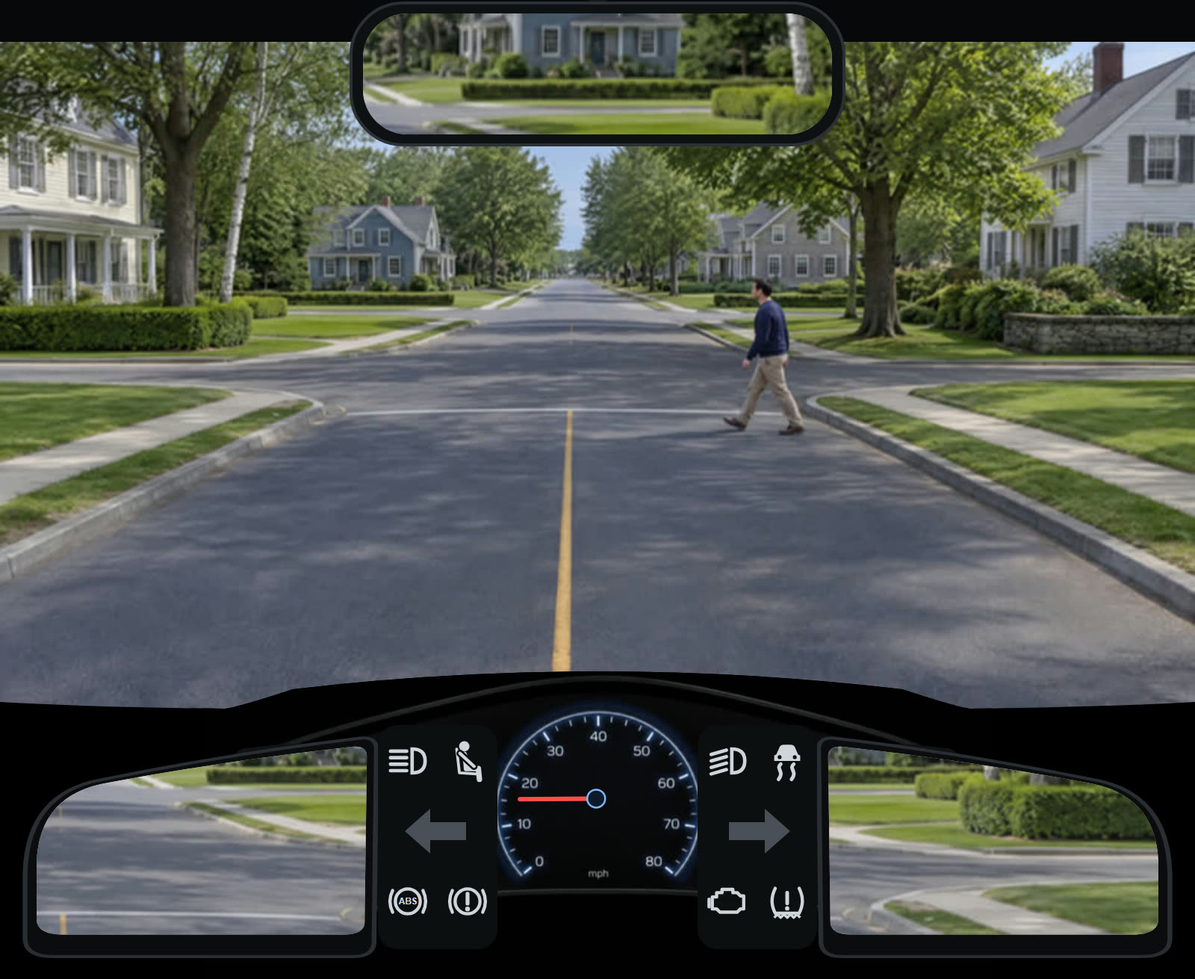
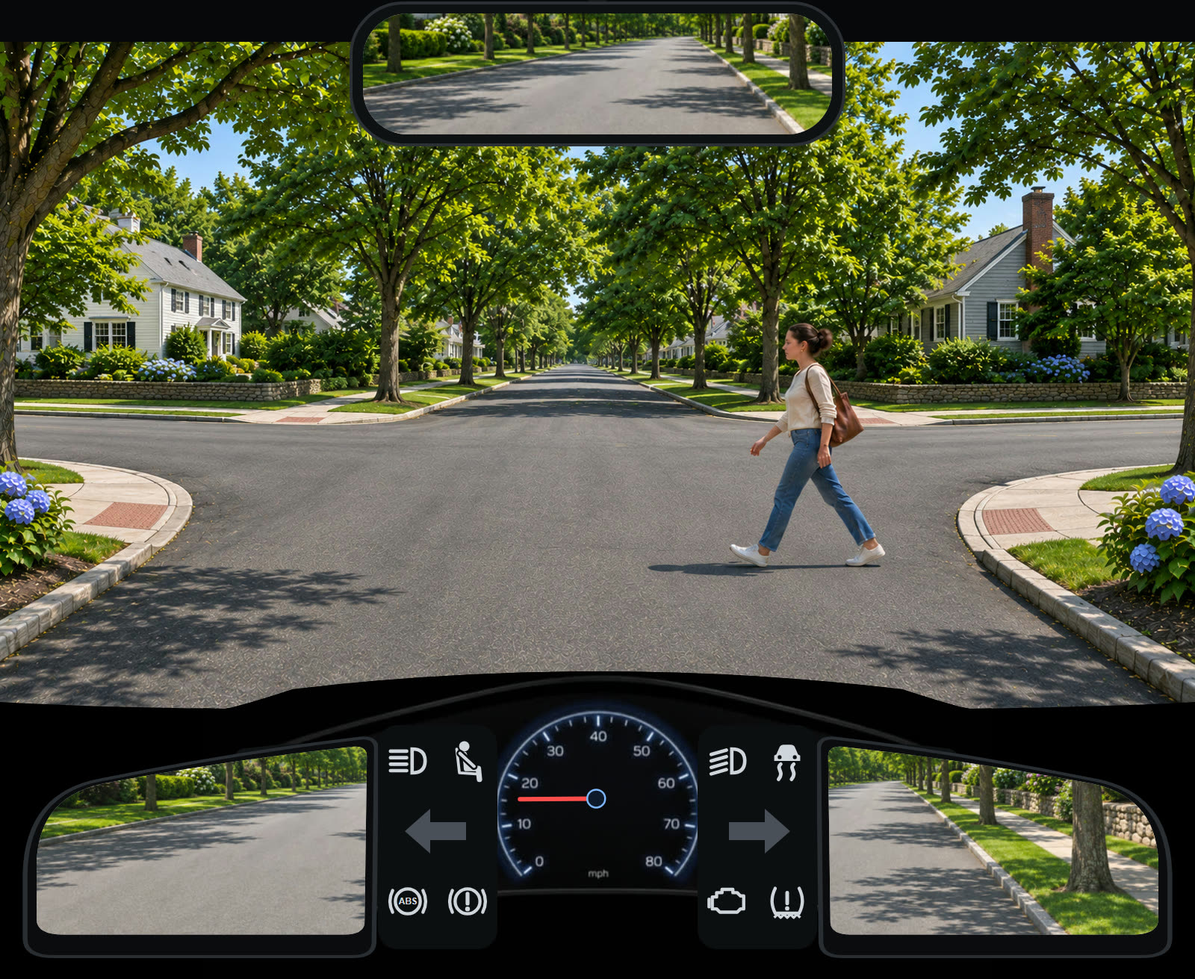
PDD release 4: driver-view pictures for 22 questions (list items 14, 21-32, 35, 36, 38, 40, 41, 47, 49, 52)
User accepted the pictures 18-19.11 (zoom, diff with the previous version, frame with
mirrors at 375 px; notes in drafts/items-*-notes.txt). Q139, Q198, Q199, Q201 (top view),
Q202 and Q531 (same picture), Q203-Q210, Q208 (top view), Q214 (top view), Q215 (low beam),
Q637, Q300, Q275, Q85; Q68 and Q92 get 16:10 pictures instead of the 16:9 ones. Letters
drawn onto app copies of Q201 (A-D), Q208 (A-C), Q209 (A-C). Short texts in DVT keep the
facts a phone-size picture does not show (reviewer 19.11, accepted by the user); full texts
and picture notes in question-texts.json; progress reset QV 2026-11-20-img. Q636, Q635, Q64,
Q189 taken out until new pictures (unchanged vs. HEAD); Q212 waits for a decision on option 3.
Not published yet.

diff --git a/index.html b/index.html
@@ -1171,7 +1171,7 @@ PDD_EDIT_ROW.forEach(e=>{const q=Q[e.id];
 /* PDD-DRIVER-VIEW: windshield frame for driver's-view pictures (approved 2026-11-08; editorial/img/driver-view, skill pdd-driver-view-image).
    DV[id] = [scene, speed mph, left signal, right signal, mirror scene or '', scene top (56; lower it, up to 122, when the rear-view mirror would hide a signal or sign)] — dvf() runs only at build time: editorial/img/driver-view/build-app.cjs fills DVI from app/*.jpg, pre-renders each frame to img/dv/q<id>.jpg and writes DVP (user decision 2026-11-17: pictures as separate files). */
 const DVI={};/*DVI*/
-const DV={65:['q65',10,1,0,'',122],68:['q68f',25,0,0,'q68r'],92:['q92',15,0,0,'q92r'],213:['q213f',55,1,0,'q213r'],294:['q294',20,0,0,''],675:['r21',0,0,0,'r21r',56,{h:1000,ry:80,low:1}],669:['r15',0,0,0,'r15r',56,{h:1000,ry:130}],671:['r17',30,0,0,'r17r',56,{h:1000,ry:80}],673:['r19',0,0,0,'r19r',56,{h:1000,ry:80}],677:['r23',5,1,0,'r23r',56,{h:1000,ry:80}],679:['r25',0,1,0,'r25r',56,{h:1000,ry:80}],682:['r28',35,0,0,'r28r',56,{h:1000,ry:80}],684:['r30',0,0,0,'r30r',56,{h:1000,ry:80}],686:['r32',45,0,0,'r32r',56,{h:1000,ry:80,high:1}],687:['r33',45,0,0,'r33r',56,{h:1000,ry:80,high:1}],689:['r35',45,0,0,'r35r',56,{h:1000,ry:80}],692:['r38',25,0,0,'r38r',56,{h:1000,ry:80,low:1}],695:['r41',45,0,0,'r41r',56,{h:1000,ry:80}],67:['q67',30,0,0,'q67r',56,{h:1000,ry:80}],97:['q97',45,0,0,'q97r',56,{h:1000,ry:40}],99:['q99',0,0,0,'',56,{h:1000,plain:1}],132:['q132',10,0,0,'q132r',56,{h:1000,ry:80}],160:['q160',15,0,0,'q160r',56,{h:1000,ry:80}],176:['q176',10,0,0,'q176r',56,{h:1000,ry:80}],564:['q564',55,0,0,'q564r',56,{h:1000,ry:80}],612:['q612',20,0,0,'q612r',56,{h:1000,ry:80}],638:['q638',0,0,0,'q638r',56,{h:1000,ry:80}],90:['q90',40,0,0,'q90r',56,{h:1000,ry:60}],195:['q195',25,0,0,'q195r',56,{h:1000,ry:80}],196:['q196',25,0,0,'q196r',56,{h:1000,ry:80}],647:['q647',15,0,0,'q647r',56,{h:1000,ry:80}],197:['q197',15,0,0,'q197r',56,{h:1000,ry:80}]};
+const DV={65:['q65',10,1,0,'',122],68:['q68',25,0,0,'q68r',56,{h:1000,ry:80}],92:['q92',15,0,0,'q92r',56,{h:1000,ry:80}],213:['q213f',55,1,0,'q213r'],294:['q294',20,0,0,''],675:['r21',0,0,0,'r21r',56,{h:1000,ry:80,low:1}],669:['r15',0,0,0,'r15r',56,{h:1000,ry:130}],671:['r17',30,0,0,'r17r',56,{h:1000,ry:80}],673:['r19',0,0,0,'r19r',56,{h:1000,ry:80}],677:['r23',5,1,0,'r23r',56,{h:1000,ry:80}],679:['r25',0,1,0,'r25r',56,{h:1000,ry:80}],682:['r28',35,0,0,'r28r',56,{h:1000,ry:80}],684:['r30',0,0,0,'r30r',56,{h:1000,ry:80}],686:['r32',45,0,0,'r32r',56,{h:1000,ry:80,high:1}],687:['r33',45,0,0,'r33r',56,{h:1000,ry:80,high:1}],689:['r35',45,0,0,'r35r',56,{h:1000,ry:80}],692:['r38',25,0,0,'r38r',56,{h:1000,ry:80,low:1}],695:['r41',45,0,0,'r41r',56,{h:1000,ry:80}],67:['q67',30,0,0,'q67r',56,{h:1000,ry:80}],97:['q97',45,0,0,'q97r',56,{h:1000,ry:40}],99:['q99',0,0,0,'',56,{h:1000,plain:1}],132:['q132',10,0,0,'q132r',56,{h:1000,ry:80}],160:['q160',15,0,0,'q160r',56,{h:1000,ry:80}],176:['q176',10,0,0,'q176r',56,{h:1000,ry:80}],564:['q564',55,0,0,'q564r',56,{h:1000,ry:80}],612:['q612',20,0,0,'q612r',56,{h:1000,ry:80}],638:['q638',0,0,0,'q638r',56,{h:1000,ry:80}],90:['q90',40,0,0,'q90r',56,{h:1000,ry:60}],195:['q195',25,0,0,'q195r',56,{h:1000,ry:80}],196:['q196',25,0,0,'q196r',56,{h:1000,ry:80}],647:['q647',15,0,0,'q647r',56,{h:1000,ry:80}],197:['q197',15,0,0,'q197r',56,{h:1000,ry:80}],85:['q85',15,0,0,'q85r',56,{h:1000,ry:80}],139:['q139',0,0,0,'q139r',56,{h:1000,ry:80}],198:['q198',10,0,1,'q198r',56,{h:1000,ry:80}],199:['q199',0,1,0,'q199r',56,{h:1000,ry:80}],201:['q201',0,0,0,'',56,{h:1000,plain:1}],202:['q202',15,0,0,'q202r',56,{h:1000,ry:80}],203:['q203',55,0,0,'q203r',56,{h:1000,ry:80}],204:['q204',15,0,0,'q204r',56,{h:1000,ry:80}],205:['q205',0,0,1,'q205r',56,{h:1000,ry:80}],206:['q206',25,0,0,'q206r',56,{h:1000,ry:80}],207:['q207',40,0,0,'q207r',56,{h:1000,ry:80}],208:['q208',0,0,0,'',56,{h:1000,plain:1}],209:['q209',0,0,0,'q209r',56,{h:1000,ry:80}],210:['q210',10,0,0,'q210r',56,{h:1000,ry:80}],214:['q214',0,0,0,'',56,{h:1000,plain:1}],215:['q215',30,0,0,'q215r',56,{h:1000,ry:80,low:1}],275:['q275',10,0,0,'q275r',56,{h:1000,ry:80}],300:['q300',15,0,0,'q300r',56,{h:1000,ry:80}],531:['q202',15,0,0,'q202r',56,{h:1000,ry:80}],637:['q637',3,0,1,'q637r',56,{h:1000,ry:80}]};
 function dvf(id,scene,speed,left,right,rear,sy=56,o={}){ // o: h = scene height (900 for 16:9, 1000 for 16:10), ry = rear-view mirror crop shift down, low = low-beam icon lit, high = high-beam icon lit (blue), plain = picture only (top view, no dashboard/mirrors; 1600x1000)
  if(o.plain)return `<svg xmlns="http://www.w3.org/2000/svg" viewBox="0 0 1600 1000"><image href="${DVI[scene]}" x="0" y="0" width="1600" height="1000"/></svg>`;
  const W=1600,ds=0.66,dw=1600*ds,dx=(W-dw)/2,dy=56+900-80-107*ds,H=Math.round(dy+660*ds)+70;
@@ -1206,8 +1206,8 @@ function dvf(id,scene,speed,left,right,rear,sy=56,o={}){ // o: h = scene height 
  (R?`<image href="${R}" x="${800-747*0.75}" y="${99-300*0.75-(o.ry||0)}" width="${1600*0.75}" height="${900*0.75}" clip-path="url(#rv${id})"/>`:'')+`</svg>`}
 // Questions with a driver-view picture: short text in the app, full description in editorial/img/driver-view/question-texts.json (user, 2026-11-09).
 Q[213][1]=Q[213][1].map(o=>o.replace('мотоцикл (M) может','мотоцикл может').replace('Учесть машину E в дальней полосе','Учесть машину в крайней левой полосе'));
-const DVT={"65":"Вы поворачиваете налево. Кому вы обязаны уступить?","67":"На встречной стороне остановился школьный автобус с мигающими красными огнями. Разделителя и барьера между направлениями нет. Что делать?","68":"Сзади с сиреной и мигалками приближается скорая помощь. Что нужно сделать?","90":"Можно ли вам здесь обогнать машину впереди?","92":"Вы подъезжаете к перекрёстку без светофора и знаков. Что нужно сделать?","97":"Вы едете с разрешённой скоростью, сзади вплотную держится машина. Справа свободная полоса. Что лучше всего?","99":"Вы на синей машине в средней полосе. Машину слева чуть сзади не видно в зеркале. Что правильно?","132":"Фура включила правый поворотник, но идёт у левого края полосы. Справа у бордюра свободно. Что делать?","160":"Один пешеход поднял руку в вашу сторону, у другого колёса коляски уже на переходе. Что делать?","176":"Горит зелёный, но за перекрёстком затор, и места для вас там нет. Что верно?","195":"Вы едете по правой полосе. Перед переходом без светофора в левой полосе остановилась белая машина. Что правильно?","196":"Из промежутка между машинами справа на дорогу выкатился мяч. Детей не видно. Что правильно?","197":"Вы догнали велосипедиста. Навстречу едет машина, поэтому обогнать его с зазором в три фута сейчас нельзя. Что делать?","213":"Вы хотите перестроиться на полосу левее. Что ещё нужно сделать?","294":"Перекрёсток без знаков и светофоров. Что верно?","564":"Вы в правой полосе трассы. Справа с рампы въезжают машины, полоса слева свободна. Что правильно?","612":"Что означает эта разметка на вашей полосе?","638":"После ДТП обе машины стоят у края дороги, остальные машины спокойно проезжают по свободным полосам. Водитель второй машины в сознании, жалуется на сильную боль и остаётся в машине. Других пострадавших нет; дыма, огня и запаха топлива нет. Что правильно?","647":"Что показывает рукой водитель впереди?","669":"Поезда не видно уже минуту, водитель сзади сигналит. Что делать?","671":"Кажется, что поезд ещё далеко и идёт медленно. Что правильно?","673":"Загорелся зелёный. Что сделать, прежде чем тронуться?","675":"Вы стоите на красном и хотите ехать прямо. Что правильно?","677":"Вы поворачиваете налево на эту улицу. Знаков и разметки, как поворачивать, нет. В какую полосу повернуть?","679":"Вы поворачиваете налево из правой из двух полос, слева поворачивает другая машина. Как ехать в повороте?","682":"Впереди дорога уходит за холм. В каком случае начинать обгон нельзя?","684":"Вы собираетесь отъехать от обочины. Нужно ли включать поворотник?","686":"Вы едете с дальним светом. Вдали появились фары встречной машины. Что нужно сделать?","687":"Вы едете за машиной примерно в 200 футах, встречных нет. Какой свет должен быть включён?","689":"Вдали у дороги знак-ромб, что изображено на нём, пока не разобрать. Что понятно уже по форме знака?","692":"Надпись на красном знаке ещё не прочитать. Что известно уже по цвету?","695":"Рисунок на этом знаке вам незнаком. Как поступить?"};Object.keys(DVT).forEach(id=>{Q[id][0]=DVT[id]});
-const DVP={"65":"img/dv/q65.jpg?v=0afe7f9cc0","67":"img/dv/q67.jpg?v=b1952d81cd","68":"img/dv/q68.jpg?v=7801bf0674","90":"img/dv/q90.jpg?v=335fc26ad3","92":"img/dv/q92.jpg?v=1dc31630b6","97":"img/dv/q97.jpg?v=a18be17547","99":"img/dv/q99.jpg?v=de6913de63","132":"img/dv/q132.jpg?v=4b2326bfee","160":"img/dv/q160.jpg?v=4616a84f34","176":"img/dv/q176.jpg?v=337cc6dbf6","195":"img/dv/q195.jpg?v=421ffd6a7e","196":"img/dv/q196.jpg?v=3df50f3151","197":"img/dv/q197.jpg?v=bd42cb8bed","213":"img/dv/q213.jpg?v=2c6eca3e41","294":"img/dv/q294.jpg?v=0dc61229e1","564":"img/dv/q564.jpg?v=f1b6ed02cf","612":"img/dv/q612.jpg?v=01f3fe790e","638":"img/dv/q638.jpg?v=9eb82b14d7","647":"img/dv/q647.jpg?v=4e118b987b","669":"img/dv/q669.jpg?v=f41f78123b","671":"img/dv/q671.jpg?v=3441308b7f","673":"img/dv/q673.jpg?v=b6ecdb036f","675":"img/dv/q675.jpg?v=81e9acd1c9","677":"img/dv/q677.jpg?v=6d9f126800","679":"img/dv/q679.jpg?v=353d215e27","682":"img/dv/q682.jpg?v=fc246abbaa","684":"img/dv/q684.jpg?v=77175b2d62","686":"img/dv/q686.jpg?v=bc752e132c","687":"img/dv/q687.jpg?v=f6dccae58a","689":"img/dv/q689.jpg?v=a3f56ab64f","692":"img/dv/q692.jpg?v=6791c09948","695":"img/dv/q695.jpg?v=c3d41c9dc4"};/*DVP*/
+const DVT={"65":"Вы поворачиваете налево. Кому вы обязаны уступить?","67":"На встречной стороне остановился школьный автобус с мигающими красными огнями. Разделителя и барьера между направлениями нет. Что делать?","68":"Сзади с сиреной и мигалками приближается скорая помощь. Что нужно сделать?","85":"Над перекрёстком мигает красный сигнал, других машин не видно. Что это означает?","90":"Можно ли вам здесь обогнать машину впереди?","92":"Вы подъезжаете к перекрёстку без светофора и знаков. Что нужно сделать?","97":"Вы едете с разрешённой скоростью, сзади вплотную держится машина. Справа свободная полоса. Что лучше всего?","99":"Вы на синей машине в средней полосе. Машину слева чуть сзади не видно в зеркале. Что правильно?","132":"Фура включила правый поворотник, но идёт у левого края полосы. Справа у бордюра свободно. Что делать?","139":"Вы стоите на второстепенной дороге и хотите выехать прямо перед этим мотоциклом, у него мигает правый поворотник. Что нужно помнить?","160":"Один пешеход поднял руку в вашу сторону, у другого колёса коляски уже на переходе. Что делать?","176":"Горит зелёный, но за перекрёстком затор, и места для вас там нет. Что верно?","195":"Вы едете по правой полосе. Перед переходом без светофора в левой полосе остановилась белая машина. Что правильно?","196":"Из промежутка между машинами справа на дорогу выкатился мяч. Детей не видно. Что правильно?","197":"Вы догнали велосипедиста. Навстречу едет машина, поэтому обогнать его с зазором в три фута сейчас нельзя. Что делать?","198":"Вы собираетесь повернуть направо. Велосипедист сзади по велополосе справа едет прямо и вот-вот поравняется с вашей задней дверью. Что правильно?","199":"Вы хотите повернуть налево. Встречная машина уже проехала, далеко по встречной полосе едет мотоцикл с мигающим поворотником. Расстояние до него кажется достаточным. Что правильно?","201":"В каких машинах водитель тягача, скорее всего, вас не видит?","202":"Вы уже на перекрёстке, горит зелёный. Сзади приближается скорая с сиреной. Что правильно?","203":"Ограничение скорости 55 миль/ч. Впереди на обочине стоит полицейская машина с мигающими огнями. Что нужно сделать?","204":"Пешеход руку не поднимает, но его собака на поводке уже ступила на переход. Что правильно?","205":"У вас зелёный, вы поворачиваете направо. По переходу идёт слепой пешеход с белой тростью. Что правильно?","206":"Школьный автобус на встречной стороне мигает красными огнями. Что правильно?","207":"Школьный автобус за барьером мигает красными огнями. Что правильно?","208":"Вы подъезжаете к кольцу и собираетесь свернуть на выезд направо. Что правильно?","209":"Перекрёсток с четырьмя STOP. Первой остановилась машина A, затем почти одновременно вы и машина C, последней остановилась машина B. Все едут прямо. Расставьте их в порядке очерёдности проезда (нажимайте шаги по порядку)","210":"Вы подъезжаете к переезду: шлагбаум поднят, сигналы не горят, поезда не видно. Что правильно?","213":"Вы хотите перестроиться на полосу левее. Что ещё нужно сделать?","214":"Вы собираетесь выехать задним ходом на улицу. Из машины ребёнка позади не видно. Что правильно?","215":"Идёт дождь, до мотоцикла около трёх секунд. Что правильно?","275":"Только что проехал поезд. Что верно?","294":"Перекрёсток без знаков и светофоров. Что верно?","300":"Вы и машина справа одновременно подъезжаете к перекрёстку без знаков. Кто едет первым?","531":"Вы в середине перекрёстка, а сзади приближается скорая с сиреной. Что делать?","564":"Вы в правой полосе трассы. Справа с рампы въезжают машины, полоса слева свободна. Что правильно?","612":"Что означает эта разметка на вашей полосе?","637":"Вы выезжаете с парковки и хотите повернуть направо. Слева по улице близко подъезжает машина. Как поступить?","638":"После ДТП обе машины стоят у края дороги, остальные машины спокойно проезжают по свободным полосам. Водитель второй машины в сознании, жалуется на сильную боль и остаётся в машине. Других пострадавших нет; дыма, огня и запаха топлива нет. Что правильно?","647":"Что показывает рукой водитель впереди?","669":"Поезда не видно уже минуту, водитель сзади сигналит. Что делать?","671":"Кажется, что поезд ещё далеко и идёт медленно. Что правильно?","673":"Загорелся зелёный. Что сделать, прежде чем тронуться?","675":"Вы стоите на красном и хотите ехать прямо. Что правильно?","677":"Вы поворачиваете налево на эту улицу. Знаков и разметки, как поворачивать, нет. В какую полосу повернуть?","679":"Вы поворачиваете налево из правой из двух полос, слева поворачивает другая машина. Как ехать в повороте?","682":"Впереди дорога уходит за холм. В каком случае начинать обгон нельзя?","684":"Вы собираетесь отъехать от обочины. Нужно ли включать поворотник?","686":"Вы едете с дальним светом. Вдали появились фары встречной машины. Что нужно сделать?","687":"Вы едете за машиной примерно в 200 футах, встречных нет. Какой свет должен быть включён?","689":"Вдали у дороги знак-ромб, что изображено на нём, пока не разобрать. Что понятно уже по форме знака?","692":"Надпись на красном знаке ещё не прочитать. Что известно уже по цвету?","695":"Рисунок на этом знаке вам незнаком. Как поступить?"};Object.keys(DVT).forEach(id=>{Q[id][0]=DVT[id]});
+const DVP={"65":"img/dv/q65.jpg?v=0afe7f9cc0","67":"img/dv/q67.jpg?v=b1952d81cd","68":"img/dv/q68.jpg?v=b961765354","85":"img/dv/q85.jpg?v=ee99c776fe","90":"img/dv/q90.jpg?v=335fc26ad3","92":"img/dv/q92.jpg?v=44a8c606b2","97":"img/dv/q97.jpg?v=a18be17547","99":"img/dv/q99.jpg?v=de6913de63","132":"img/dv/q132.jpg?v=4b2326bfee","139":"img/dv/q139.jpg?v=c72eb83cf4","160":"img/dv/q160.jpg?v=4616a84f34","176":"img/dv/q176.jpg?v=337cc6dbf6","195":"img/dv/q195.jpg?v=421ffd6a7e","196":"img/dv/q196.jpg?v=3df50f3151","197":"img/dv/q197.jpg?v=bd42cb8bed","198":"img/dv/q198.jpg?v=44ef406597","199":"img/dv/q199.jpg?v=c98e095102","201":"img/dv/q201.jpg?v=f6d1da8827","202":"img/dv/q202.jpg?v=e026d4e927","203":"img/dv/q203.jpg?v=363af52185","204":"img/dv/q204.jpg?v=875bbc6e52","205":"img/dv/q205.jpg?v=7a78ca598e","206":"img/dv/q206.jpg?v=07596fbfc7","207":"img/dv/q207.jpg?v=cd731ddd8a","208":"img/dv/q208.jpg?v=0475f352be","209":"img/dv/q209.jpg?v=686dcb0df0","210":"img/dv/q210.jpg?v=f406693088","213":"img/dv/q213.jpg?v=2c6eca3e41","214":"img/dv/q214.jpg?v=1a51f81b20","215":"img/dv/q215.jpg?v=6e819c1be3","275":"img/dv/q275.jpg?v=f883adf194","294":"img/dv/q294.jpg?v=0dc61229e1","300":"img/dv/q300.jpg?v=63073e78bb","531":"img/dv/q531.jpg?v=e0119f155c","564":"img/dv/q564.jpg?v=f1b6ed02cf","612":"img/dv/q612.jpg?v=01f3fe790e","637":"img/dv/q637.jpg?v=7081e0949b","638":"img/dv/q638.jpg?v=9eb82b14d7","647":"img/dv/q647.jpg?v=4e118b987b","669":"img/dv/q669.jpg?v=f41f78123b","671":"img/dv/q671.jpg?v=3441308b7f","673":"img/dv/q673.jpg?v=b6ecdb036f","675":"img/dv/q675.jpg?v=81e9acd1c9","677":"img/dv/q677.jpg?v=6d9f126800","679":"img/dv/q679.jpg?v=353d215e27","682":"img/dv/q682.jpg?v=fc246abbaa","684":"img/dv/q684.jpg?v=77175b2d62","686":"img/dv/q686.jpg?v=bc752e132c","687":"img/dv/q687.jpg?v=f6dccae58a","689":"img/dv/q689.jpg?v=a3f56ab64f","692":"img/dv/q692.jpg?v=6791c09948","695":"img/dv/q695.jpg?v=c3d41c9dc4"};/*DVP*/
 Object.keys(DV).forEach(id=>{const q=Q[id];q[4]=DVP[id];q.sc=1;q.dv=1;if((DV[id][6]||{}).plain)q.pw=1});
 /* PDD-THEORY: structured topic theory from editorial/theory/*.md */
 RT[0].t="## Безопасная скорость\n\nОграничение скорости на знаке рассчитано на хорошие условия: сухую дорогу, хорошую видимость, обычное движение. Оно учитывает и то, чего вы не видите, — боковые дороги, выезды и загруженность.\n\nЕсли дорога мокрая или скользкая, видно плохо или машин много, **нужно ехать медленнее**. По закону Коннектикута нельзя ехать быстрее, чем разумно для условий (CGS §14-218a), поэтому штраф можно получить, даже не превышая ограничение. Цифры ниже — приблизительные ориентиры из учебника, а не нормы закона.\n\nНа мокрой дороге снижайте скорость примерно на 10 миль/ч. Примерно до 35 миль/ч большинство шин хорошо держит мокрую дорогу; на большей скорости они начинают «всплывать» на воде (аквапланирование). У изношенных шин сцепление пропадает раньше.\n\n## Тормозной путь\n\nЧем быстрее вы едете, тем больше расстояния нужно, чтобы повернуть, сбросить скорость или остановиться. Тормозной путь растёт быстрее скорости: при 60 миль/ч он **более чем втрое длиннее**, чем при 30 миль/ч.\n\nЧтобы заметить опасность и остановиться на сухой дороге с хорошими шинами и тормозами, нужно примерно:\n- при 30 миль/ч — **около 200 футов** (≈60 м), почти половина городского квартала;\n- при 50 миль/ч — **около 400 футов** (≈120 м).\n\nОтсюда правило: если вы видите дорогу только на 200 футов вперёд, безопасная скорость — **не больше 30 миль/ч**.\n\nВ сильный дождь, снегопад и густой туман видимость бывает около 200 футов. Ночью дальний свет освещает примерно 400 футов — этого хватает примерно для 50 миль/ч. Если из-за ливня почти ничего не видно, съезжайте в безопасное место и пережидайте.\n\n## Следите за спидометром\n\nЛюди плохо чувствуют свою скорость, особенно когда съезжают со скоростной дороги на местные. Часто проверяйте спидометр.\n\n## Слишком медленно — тоже опасно\n\nЕсли вы едете намного медленнее потока, сзади собирается колонна, и водители начинают обгонять. Когда это безопасно, съезжайте на обочину или в «карман» (turnout) и пропускайте их. С прицепом или громоздкой машиной — при первой возможности. Если колонна копится постоянно, поезжайте быстрее (в пределах ограничения) или выбирайте дороги, где движение медленнее.\n\n## Школьная зона\n\nСоблюдайте ограничение скорости школьной зоны, знаки и мигающие огни, даже если детей не видно: дети бывают рядом не только в школьные часы. Остановитесь и уступите школьникам, которые переходят дорогу, а также когда дежурный на школьном переходе (crossing guard) подал сигнал.\n\n## Экстренная остановка\n\nРезкое торможение опасно: машина может пойти в занос, а водителям сзади труднее остановиться. Многих резких остановок можно избежать, если смотреть далеко вперёд и заранее сбавлять скорость или менять полосу. Чтобы избежать столкновения, есть три варианта: остановиться, повернуть или ускориться.\n\n- **С ABS:** нажмите на тормоз как можно сильнее и держите. Пульсация педали значит, что ABS работает, — не отпускайте. Качать педаль не нужно: ABS работает, только пока педаль нажата. С ABS можно тормозить и поворачивать без заноса. Как работает ABS именно на вашей машине, смотрите в её инструкции.\n- **Без ABS:** нажимайте как можно сильнее, но не до блокировки колёс. Если колёса заблокировались и машина скользит, быстро отпустите педаль, а когда скольжение прекратится, нажмите снова. Повторяйте, пока не остановитесь.\n\n## Объехать вместо остановки\n\nЧаще всего повернуть можно быстрее, чем остановиться. Держите руль обеими руками и рулите туда, куда хотите ехать. Без ABS сначала нажмите на тормоз, затем отпустите педаль и поворачивайте: торможение переносит вес на передние колёса. Не блокируйте передние колёса и не поворачивайте так резко, чтобы машину просто понесло вперёд. Обычно лучше съехать с дороги, чем врезаться в другую машину лоб в лоб.\n\nИногда помогает ускорение: если машина вот-вот ударит вас сбоку или сзади, а впереди есть свободное место. Когда опасность прошла, снова сбавьте скорость.\n\nПосле любого такого манёвра удержите машину под контролем, иначе можно уйти от одного столкновения и попасть в другое.\n\nУчебник Connecticut DMV, стр. 16, 22, 25–26, 36, 38, 40; Conn. Gen. Stat. §14-218a.";
@@ -1333,7 +1333,7 @@ else if(k=='wr')W.length?start(W.slice(),0):app.innerHTML='<h2>Пока пуст
 let R={};try{const savedR=JSON.parse(localStorage.getItem('r')||'{}');R=savedR&&typeof savedR==='object'&&!Array.isArray(savedR)?savedR:{}}catch(e){}
 const sr=()=>{try{localStorage.setItem('r',JSON.stringify(R))}catch(e){}};
 /* PDD-PROGRESS-RESET: when a question's text changes, bump its date in QV; old answers to it stop counting (user rule 2026-11-08). */
-const QV={197:'2026-11-19-img',647:'2026-11-19-img',196:'2026-11-19-img',195:'2026-11-19-img',67:'2026-11-18-img',97:'2026-11-18-img',99:'2026-11-18-img',132:'2026-11-18-img',160:'2026-11-18-img',176:'2026-11-18-img',564:'2026-11-18-img',612:'2026-11-18-img',638:'2026-11-18-img',669:'2026-11-17-img',671:'2026-11-17-img',673:'2026-11-17-img',677:'2026-11-17-img',679:'2026-11-17-img',682:'2026-11-17-img',684:'2026-11-17-img',686:'2026-11-17-img',687:'2026-11-17-img',689:'2026-11-17-img',692:'2026-11-17-img',695:'2026-11-17-img',675:'2026-11-15-img',644:'2026-11-15-fix',92:'2026-11-13-fix',90:'2026-11-19-img',11:'2026-11-13-fix',14:'2026-11-13-fix',13:'2026-11-13-fix',9:'2026-11-13-fix',653:'2026-11-13-fix',205:'2026-11-13-fix',189:'2026-11-13-fix',186:'2026-11-13-fix',577:'2026-11-13-fix',570:'2026-11-13-fix',548:'2026-11-13-fix',429:'2026-11-13-fix',252:'2026-11-13-fix',529:'2026-11-13-fix',520:'2026-11-13-fix',162:'2026-11-13-fix',526:'2026-11-13-fix',158:'2026-11-13-fix',156:'2026-11-13-fix',488:'2026-11-13-fix',487:'2026-11-13-fix',421:'2026-11-13-fix',458:'2026-11-13-fix',451:'2026-11-13-fix',108:'2026-11-13-fix',95:'2026-11-13-fix',610:'2026-11-13-fix',93:'2026-11-13-fix',288:'2026-11-13-fix',284:'2026-11-13-fix',450:'2026-11-13-fix',446:'2026-11-13-fix',216:'2026-11-13-fix',76:'2026-11-13-fix',619:'2026-11-13-fix',618:'2026-11-13-fix',617:'2026-11-13-fix',616:'2026-11-13-fix',615:'2026-11-13-fix',583:'2026-11-13-fix',57:'2026-11-09',154:'2026-11-13-fix',370:'2026-11-09',527:'2026-11-13-fix',546:'2026-11-13-fix',20:'2026-11-08',69:'2026-11-08',70:'2026-11-08',72:'2026-11-08',282:'2026-11-08',291:'2026-11-08',436:'2026-11-08',597:'2026-11-08',622:'2026-11-08',213:'2026-11-08-img',64:'2026-11-08',65:'2026-11-08-img',68:'2026-11-08-img',275:'2026-11-08',289:'2026-11-08',294:'2026-11-08-img',295:'2026-11-08',296:'2026-11-08',298:'2026-11-08',299:'2026-11-08',300:'2026-11-08',301:'2026-11-08',302:'2026-11-08',303:'2026-11-08',304:'2026-11-08',305:'2026-11-08',307:'2026-11-08',422:'2026-11-08',634:'2026-11-13-fix',635:'2026-11-13-fix',637:'2026-11-08'};
+const QV={531:'2026-11-20-img',215:'2026-11-20-img',214:'2026-11-20-img',210:'2026-11-20-img',209:'2026-11-20-img',208:'2026-11-20-img',207:'2026-11-20-img',206:'2026-11-20-img',204:'2026-11-20-img',203:'2026-11-20-img',202:'2026-11-20-img',201:'2026-11-20-img',199:'2026-11-20-img',198:'2026-11-20-img',139:'2026-11-20-img',85:'2026-11-20-img',197:'2026-11-19-img',647:'2026-11-19-img',196:'2026-11-19-img',195:'2026-11-19-img',67:'2026-11-18-img',97:'2026-11-18-img',99:'2026-11-18-img',132:'2026-11-18-img',160:'2026-11-18-img',176:'2026-11-18-img',564:'2026-11-18-img',612:'2026-11-18-img',638:'2026-11-18-img',669:'2026-11-17-img',671:'2026-11-17-img',673:'2026-11-17-img',677:'2026-11-17-img',679:'2026-11-17-img',682:'2026-11-17-img',684:'2026-11-17-img',686:'2026-11-17-img',687:'2026-11-17-img',689:'2026-11-17-img',692:'2026-11-17-img',695:'2026-11-17-img',675:'2026-11-15-img',644:'2026-11-15-fix',92:'2026-11-20-img',90:'2026-11-19-img',11:'2026-11-13-fix',14:'2026-11-13-fix',13:'2026-11-13-fix',9:'2026-11-13-fix',653:'2026-11-13-fix',205:'2026-11-20-img',189:'2026-11-13-fix',186:'2026-11-13-fix',577:'2026-11-13-fix',570:'2026-11-13-fix',548:'2026-11-13-fix',429:'2026-11-13-fix',252:'2026-11-13-fix',529:'2026-11-13-fix',520:'2026-11-13-fix',162:'2026-11-13-fix',526:'2026-11-13-fix',158:'2026-11-13-fix',156:'2026-11-13-fix',488:'2026-11-13-fix',487:'2026-11-13-fix',421:'2026-11-13-fix',458:'2026-11-13-fix',451:'2026-11-13-fix',108:'2026-11-13-fix',95:'2026-11-13-fix',610:'2026-11-13-fix',93:'2026-11-13-fix',288:'2026-11-13-fix',284:'2026-11-13-fix',450:'2026-11-13-fix',446:'2026-11-13-fix',216:'2026-11-13-fix',76:'2026-11-13-fix',619:'2026-11-13-fix',618:'2026-11-13-fix',617:'2026-11-13-fix',616:'2026-11-13-fix',615:'2026-11-13-fix',583:'2026-11-13-fix',57:'2026-11-09',154:'2026-11-13-fix',370:'2026-11-09',527:'2026-11-13-fix',546:'2026-11-13-fix',20:'2026-11-08',69:'2026-11-08',70:'2026-11-08',72:'2026-11-08',282:'2026-11-08',291:'2026-11-08',436:'2026-11-08',597:'2026-11-08',622:'2026-11-08',213:'2026-11-08-img',64:'2026-11-08',65:'2026-11-08-img',68:'2026-11-20-img',275:'2026-11-20-img',289:'2026-11-08',294:'2026-11-08-img',295:'2026-11-08',296:'2026-11-08',298:'2026-11-08',299:'2026-11-08',300:'2026-11-20-img',301:'2026-11-08',302:'2026-11-08',303:'2026-11-08',304:'2026-11-08',305:'2026-11-08',307:'2026-11-08',422:'2026-11-08',634:'2026-11-13-fix',635:'2026-11-13-fix',637:'2026-11-20-img'};
 (()=>{let s={};try{const v=JSON.parse(localStorage.getItem('qv')||'{}');if(v&&typeof v==='object'&&!Array.isArray(v))s=v}catch(e){}let ch=0;for(const k in QV){if(s[k]!==QV[k]){if(Object.prototype.hasOwnProperty.call(R,k)){delete R[k];ch=1}const n=W.length;W=W.filter(x=>String(x)!==k);if(W.length!==n)ch=1;s[k]=QV[k]}}if(ch){sr();save()}try{localStorage.setItem('qv',JSON.stringify(s))}catch(e){}})();
 const tids=i=>{const g=GT[i];return g.r?g.ids:(g.a<0?[]:SQ.slice(g.a,g.b+1)).concat(SQ2.filter((_,k)=>GT[SG2[k][3]]===g),(g===GT[XG]?SQ3:[]),g.x)};
 const tc=i=>{const a=tids(i);let o=0,b=0;a.forEach(x=>{if(R[x]===1)o++;else if(R[x]===0)b++});return{a,o,b,u:a.length-o-b}};

diff --git a/sw.js b/sw.js
@@ -1,5 +1,5 @@
 // C and P are written by editorial/img/driver-view/build-app.cjs: cache name (changes with the picture set) and the driver-view pictures to keep offline.
-const C='pdd-35d7eca104',P=["img/dv/q65.jpg?v=0afe7f9cc0","img/dv/q67.jpg?v=b1952d81cd","img/dv/q68.jpg?v=7801bf0674","img/dv/q90.jpg?v=335fc26ad3","img/dv/q92.jpg?v=1dc31630b6","img/dv/q97.jpg?v=a18be17547","img/dv/q99.jpg?v=de6913de63","img/dv/q132.jpg?v=4b2326bfee","img/dv/q160.jpg?v=4616a84f34","img/dv/q176.jpg?v=337cc6dbf6","img/dv/q195.jpg?v=421ffd6a7e","img/dv/q196.jpg?v=3df50f3151","img/dv/q197.jpg?v=bd42cb8bed","img/dv/q213.jpg?v=2c6eca3e41","img/dv/q294.jpg?v=0dc61229e1","img/dv/q564.jpg?v=f1b6ed02cf","img/dv/q612.jpg?v=01f3fe790e","img/dv/q638.jpg?v=9eb82b14d7","img/dv/q647.jpg?v=4e118b987b","img/dv/q669.jpg?v=f41f78123b","img/dv/q671.jpg?v=3441308b7f","img/dv/q673.jpg?v=b6ecdb036f","img/dv/q675.jpg?v=81e9acd1c9","img/dv/q677.jpg?v=6d9f126800","img/dv/q679.jpg?v=353d215e27","img/dv/q682.jpg?v=fc246abbaa","img/dv/q684.jpg?v=77175b2d62","img/dv/q686.jpg?v=bc752e132c","img/dv/q687.jpg?v=f6dccae58a","img/dv/q689.jpg?v=a3f56ab64f","img/dv/q692.jpg?v=6791c09948","img/dv/q695.jpg?v=c3d41c9dc4"];/*PRE*/
+const C='pdd-5e76c692b4',P=["img/dv/q65.jpg?v=0afe7f9cc0","img/dv/q67.jpg?v=b1952d81cd","img/dv/q68.jpg?v=b961765354","img/dv/q85.jpg?v=ee99c776fe","img/dv/q90.jpg?v=335fc26ad3","img/dv/q92.jpg?v=44a8c606b2","img/dv/q97.jpg?v=a18be17547","img/dv/q99.jpg?v=de6913de63","img/dv/q132.jpg?v=4b2326bfee","img/dv/q139.jpg?v=c72eb83cf4","img/dv/q160.jpg?v=4616a84f34","img/dv/q176.jpg?v=337cc6dbf6","img/dv/q195.jpg?v=421ffd6a7e","img/dv/q196.jpg?v=3df50f3151","img/dv/q197.jpg?v=bd42cb8bed","img/dv/q198.jpg?v=44ef406597","img/dv/q199.jpg?v=c98e095102","img/dv/q201.jpg?v=f6d1da8827","img/dv/q202.jpg?v=e026d4e927","img/dv/q203.jpg?v=363af52185","img/dv/q204.jpg?v=875bbc6e52","img/dv/q205.jpg?v=7a78ca598e","img/dv/q206.jpg?v=07596fbfc7","img/dv/q207.jpg?v=cd731ddd8a","img/dv/q208.jpg?v=0475f352be","img/dv/q209.jpg?v=686dcb0df0","img/dv/q210.jpg?v=f406693088","img/dv/q213.jpg?v=2c6eca3e41","img/dv/q214.jpg?v=1a51f81b20","img/dv/q215.jpg?v=6e819c1be3","img/dv/q275.jpg?v=f883adf194","img/dv/q294.jpg?v=0dc61229e1","img/dv/q300.jpg?v=63073e78bb","img/dv/q531.jpg?v=e0119f155c","img/dv/q564.jpg?v=f1b6ed02cf","img/dv/q612.jpg?v=01f3fe790e","img/dv/q637.jpg?v=7081e0949b","img/dv/q638.jpg?v=9eb82b14d7","img/dv/q647.jpg?v=4e118b987b","img/dv/q669.jpg?v=f41f78123b","img/dv/q671.jpg?v=3441308b7f","img/dv/q673.jpg?v=b6ecdb036f","img/dv/q675.jpg?v=81e9acd1c9","img/dv/q677.jpg?v=6d9f126800","img/dv/q679.jpg?v=353d215e27","img/dv/q682.jpg?v=fc246abbaa","img/dv/q684.jpg?v=77175b2d62","img/dv/q686.jpg?v=bc752e132c","img/dv/q687.jpg?v=f6dccae58a","img/dv/q689.jpg?v=a3f56ab64f","img/dv/q692.jpg?v=6791c09948","img/dv/q695.jpg?v=c3d41c9dc4"];/*PRE*/
 // Download every picture not yet in the cache; one failed file does not stop the rest (the page asks again on each open).
 // A picture with the same versioned URL in an older cache is copied, not downloaded again (only changed pictures are fetched after a release).
 const pre=()=>caches.open(C).then(c=>Promise.all(P.map(u=>c.match(u).then(m=>m||caches.match(u).then(o=>o?c.put(u,o):fetch(u,{cache:'no-cache'}).then(r=>{if(r.ok)return c.put(u,r)}))).catch(()=>{}))));

diff --git a/editorial/img/driver-view/README.md b/editorial/img/driver-view/README.md
@@ -53,3 +53,13 @@ Accepted by the user 18.11 after the retouch round (`PDD-Images-12-20-Retouch.zi
 - Speedometer fix (user 18.11): the 0…80 marks on `app/dash.jpg` are not evenly spaced, so the old linear needle angle (`133° + speed/80·274°`) was up to ~6° off (15 mph read ~17, 25 read ~27). `dvf()` now interpolates between the measured angles of the marks from the needle pivot: `G=[134.9,164.4,194.7,231.3,271.1,310.6,345.8,376.4,406.7]` (0,10,…,80). All 31 frames re-rendered (all picture URLs change, phones download the set again, ~9 MB). Same formula in `compose-sample.html` and the skill asset.
 - Q197 item 20 added (scene v2 18.11: the cyclist rides at the right edge of the lane, the open door is right in her path; rear v2 without emblems), `ry:80`, 15 mph; short text without the old labels (A)/(B).
 - Reviewer text fixes accepted by the user 18.11 (`fixes-4.json`): Q195 explanation cites CGS §14-300(c), the hidden-pedestrian point is a tip, option 3 no longer mentions pedestrians on the crosswalk; Q196 explanation without "почти всегда"; Q647 explanation per §14-244 wording; Q90 option 1 "с обеих сторон" (edited in `fixes-3.json`). User rule 18.11: option lengths are NOT equalized — options should differ naturally.
+
+## Release 4 (list items 14, 21–52), prepared 2026-11-19, not yet published
+
+Accepted by the user 18–19.11 (checks per the skill §9–§10: zoom, diff with the previous version, frame with mirrors at 375 px; notes in `drafts/items-*-notes.txt`). App copies made with the HOW-TO-FRAME commands from the accepted versions — byte-identical to the files the approved trial frames were built from (except the letters below); built frames vs. the approved `drafts/q*-framed-N.png`: SSIM 0.986–0.991.
+- 22 questions (first 26; Q636, Q635, Q64, Q189 taken out again after the reviewer, see below): Q139 (item 14, v6), Q198 (21), Q199 (22, v3), Q201 (23, v2, top view), Q202 + Q531 (24, v2, same picture), Q203 (25, v2), Q204 (26, v2), Q205 (27, front v2 + rear v1), Q206 (28), Q207 (29), Q208 (30, v2, top view), Q209 (31, v2), Q210 (32, v2), Q214 (35, top view), Q215 (36, low beam lit), Q637 (38, v2), Q68 (40) and Q92 (41) replace their 16:9 pictures of 08.11/13.11, Q300 (47), Q275 (49), Q85 (52). All `ry:80`; speed and turn signals from the «Код:» line of `CHATGPT-TASKS-2026-11-16.md`.
+- Letters: options of Q201 (A–D), Q208 (B), Q209 (A, B, C) name objects, so the letters are drawn onto the app copies `app/q201.jpg`, `q208.jpg`, `q209.jpg` (ffmpeg drawtext, Arial Bold 60 px, white box); the accepted originals in `drafts/` stay without letters. Mapping as in the old schemes, except Q209 (picture: A opposite, B left, C right).
+- Q637 (approved right-of-way scenario question) and the hazard-set questions show the picture instead of their SVG scheme; the scheme files stay in `editorial/svg`. `tests/integrity.cjs` checks this like Q90.
+- Short texts in `DVT` (only what the picture shows is removed; arrival order, «одновременно», «мигает», seconds, 55 mph stay in the text); full texts (= the previous app text) and picture notes in `question-texts.json`; progress reset `QV 2026-11-20-img`. Unused now: `app/q68f.jpg` (old Q68 scene).
+- Not in this release: Q212 (item 34) — the accepted picture has the small gap ahead of us and the large gap beside us, so option 3 «…водитель X успеет притормозить» cannot match any labelling (needs the user's decision: new picture or option text); Q16 (same picture as Q85) — in no topic or pool, not shown; items 33, 39, 42–44, 50, 51 wait for fixes.
+- Reviewer 19.11 (accepted by the user «Да, применяй»): short texts keep facts the phone-size picture does not show (Q139/Q199 turn signal, Q202 «уже на перекрёстке», Q203 police car, Q205 white cane, Q210 signals off, Q637 car close, Q300 «одновременно … без знаков»; wording Q198, Q208, Q209). Taken out until new pictures: Q636 (item 37: the picture is a T-junction, the question says «прямо»), Q635/Q64/Q189 (items 45, 46, 48: the STOP signs for the cross street face us, so all four look like ours). They keep their schemes/texts exactly as before (checked against HEAD).
